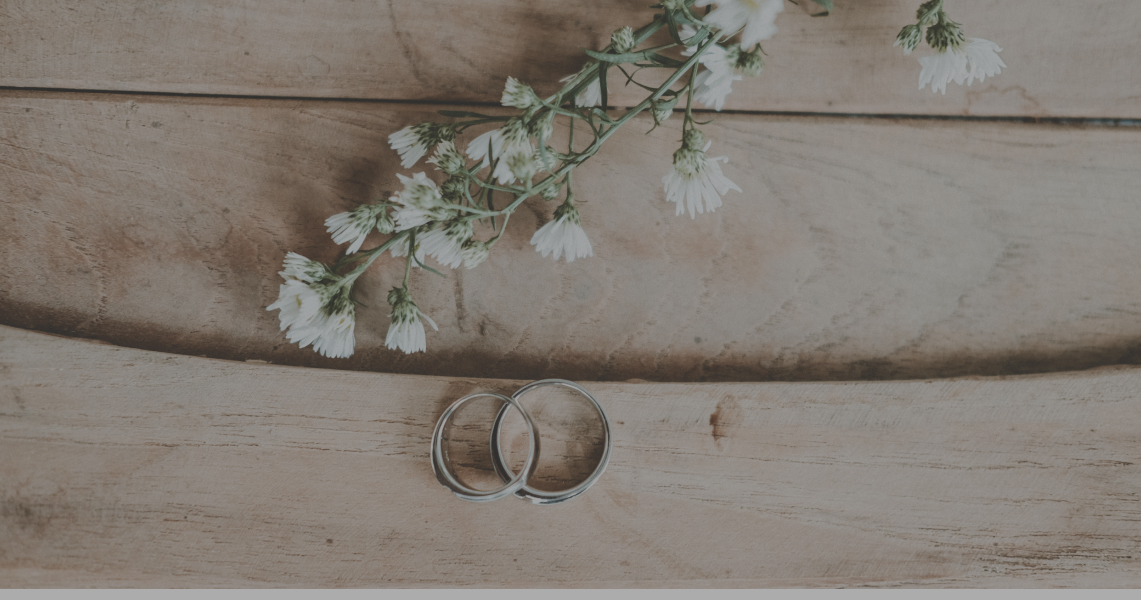
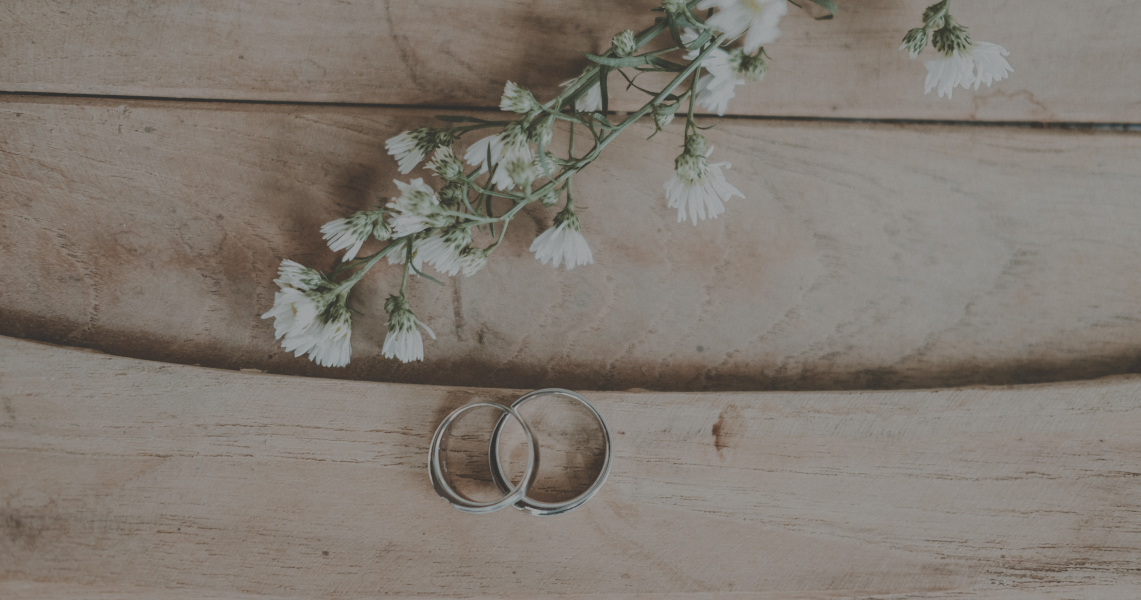
Create About

diff --git a/src/component/about/Description.js b/src/component/about/Description.js
@@ -1,0 +1,43 @@
+import React, { Component } from "react";
+import { Logo } from "../../assets/img/img";
+
+export default class Description extends Component {
+  render() {
+    return (
+      <>
+        <section id="about">
+          <div className="container">
+            <div className="row">
+              <div className="logo">
+                <img src={Logo} alt="logo" className="img-fluid" />
+              </div>
+              <div className="description">
+                <p>
+                  Empathie.photo is a team of professional photographer owned by
+                  Jay {"&"} Elfin. We offering service in Wedding, Pre-Wedding,
+                  Engagement, etc in Jabodetabek.
+                </p>
+
+                <p>
+                  As a team of professional photographers, we are also committed
+                  to capture every meaningful moment expressed by our
+                  photography results. Believing that every picture tells a
+                  story, towards our creativity, team work, and sincerity on
+                  customers’ satisfaction, we treasure our relationship with the
+                  customers by giving everything we have.
+                </p>
+
+                <p>
+                  In Depok where Empathie.photo established, we have witnessed
+                  that happiness on each photograph is boundless. It is keeping
+                  us encouraged that our job is to provide the best for our
+                  customers, wherever and whenever.
+                </p>
+              </div>
+            </div>
+          </div>
+        </section>
+      </>
+    );
+  }
+}

diff --git a/src/css/main.css b/src/css/main.css
@@ -370,4 +370,61 @@ body {
   max-width: 700px;
 }
 
+#jumbotron-about .jumbotron {
+  margin-top: 30px;
+  background-color: #171717;
+  background-image: url("../assets/img/Jumbo_about.jpg");
+  background-size: cover;
+  height: 100vh;
+  background-position-x: 40%;
+}
+#jumbotron-about .jumbotron .row {
+  display: flex;
+}
+#jumbotron-about .jumbotron .row h1 {
+  font-family: "Noto Sans JP", sans-serif;
+  color: whitesmoke;
+  font-weight: 100;
+  font-size: 36px;
+  letter-spacing: 20px;
+  margin: auto;
+  margin-top: 70px;
+  text-shadow: 2px 2px 8px rgba(0, 0, 0, 0.3);
+}
+@media (max-width: 768px) {
+  #jumbotron-about .jumbotron {
+    margin-top: 0px;
+  }
+  #jumbotron-about .jumbotron .row h1 {
+    font-size: 24px;
+  }
+}
+
+#about .container {
+  margin-top: -80px;
+}
+#about .container .row {
+  display: flex;
+  justify-content: center;
+  flex-wrap: wrap;
+}
+#about .container .row .logo {
+  width: 480px;
+}
+#about .container .row .logo img {
+  width: 100%;
+}
+#about .container .row .description {
+  background-color: #2f2f2f;
+  padding: 30px;
+  width: 480px;
+  display: flex;
+  flex-direction: column;
+}
+#about .container .row .description p {
+  margin: auto;
+  font-family: "Rokkitt", serif;
+  color: white;
+}
+
 /*# sourceMappingURL=main.css.map */

diff --git a/public/index.html b/public/index.html
@@ -15,9 +15,9 @@
   <body>
     <div id="root"></div>
 
-    <!-- <script src="https://ajax.googleapis.com/ajax/libs/jquery/1.12.4/jquery.min.js"></script> -->
-    <!-- <script src="https://cdnjs.cloudflare.com/ajax/libs/popper.js/1.12.9/umd/popper.min.js" integrity="sha384-ApNbgh9B+Y1QKtv3Rn7W3mgPxhU9K/ScQsAP7hUibX39j7fakFPskvXusvfa0b4Q" crossorigin="anonymous"></script>
-    <script src="https://maxcdn.bootstrapcdn.com/bootstrap/4.0.0/js/bootstrap.min.js" integrity="sha384-JZR6Spejh4U02d8jOt6vLEHfe/JQGiRRSQQxSfFWpi1MquVdAyjUar5+76PVCmYl" crossorigin="anonymous"></script> -->
+    <script src="https://ajax.googleapis.com/ajax/libs/jquery/1.12.4/jquery.min.js"></script>
+    <script src="https://cdnjs.cloudflare.com/ajax/libs/popper.js/1.12.9/umd/popper.min.js" integrity="sha384-ApNbgh9B+Y1QKtv3Rn7W3mgPxhU9K/ScQsAP7hUibX39j7fakFPskvXusvfa0b4Q" crossorigin="anonymous"></script>
+    <script src="https://maxcdn.bootstrapcdn.com/bootstrap/4.0.0/js/bootstrap.min.js" integrity="sha384-JZR6Spejh4U02d8jOt6vLEHfe/JQGiRRSQQxSfFWpi1MquVdAyjUar5+76PVCmYl" crossorigin="anonymous"></script>
   
   </body>
 </html>

diff --git a/src/sass/Portfolio/_portfolio.scss b/src/sass/Portfolio/_portfolio.scss
@@ -1,0 +1,38 @@
+@use '../setup';
+
+#jumbotron-portfolio {
+  .jumbotron {
+    margin-top: 30px;
+    background-color: setup.$primaryColor;
+    background-image: url("../assets/img/Jumbo_portfolio.jpg");
+    background-size: cover;
+    height: 100vh;
+    background-position-x: 50%;
+
+    .row {
+      display: flex;
+
+      h1 {
+        font-family: "Noto Sans JP", sans-serif;
+        color: whitesmoke;
+        font-weight: 100;
+        font-size: 36px;
+        letter-spacing: 20px;
+        margin: auto;
+        margin-top: 70px;
+        text-shadow: 2px 2px 8px rgba($color: #000000, $alpha: 0.3);
+      }
+    }
+  }
+
+  @media (max-width: 768px) {
+    .jumbotron {
+      margin-top: 0px;
+      .row {
+        h1 {
+          font-size: 24px;
+        }
+      }
+    }
+  }
+}

diff --git a/src/pages/About.js b/src/pages/About.js
@@ -1,11 +1,16 @@
-import React, { Component } from 'react'
+import React, { Component } from "react";
+import { Navbar } from "../component/index";
+import JumbotronAbout from "../component/about/JumbotronAbout";
+import Description from "../component/about/Description";
 
 export default class About extends Component {
-    render() {
-        return (
-            <div>
-                ini about
-            </div>
-        )
-    }
+  render() {
+    return (
+      <>
+        <Navbar />
+        <JumbotronAbout />
+        <Description />
+      </>
+    );
+  }
 }

diff --git a/src/sass/About/_description.scss b/src/sass/About/_description.scss
@@ -1,0 +1,30 @@
+@use '../setup';
+
+#about {
+  .container {
+    margin-top: -80px;
+    .row {
+      display: flex;
+      justify-content: center;
+      flex-wrap: wrap;
+      .logo {
+        width: 480px;
+        img {
+          width: 100%;
+        }
+      }
+      .description {
+        background-color: #2f2f2f;
+        padding: 30px;
+        width: 480px;
+        display: flex;
+        flex-direction: column;
+        p {
+          margin: auto;
+          font-family: "Rokkitt", serif;
+          color: white;
+        }
+      }
+    }
+  }
+}

diff --git a/src/sass/About/_jumbotronAbout.scss b/src/sass/About/_jumbotronAbout.scss
@@ -1,13 +1,14 @@
-@use 'setup';
+@use '../setup';
 
-#jumbotron-portfolio {
+#jumbotron-about {
   .jumbotron {
     margin-top: 30px;
     background-color: setup.$primaryColor;
-    background-image: url("../assets/img/Jumbo_portfolio.jpg");
+    background-image: url("../assets/img/Jumbo_about.jpg");
     background-size: cover;
     height: 100vh;
-    background-position-x: 50%;
+    // background-position-y: -80px;
+    background-position-x: 40%;
 
     .row {
       display: flex;

diff --git a/src/component/about/JumbotronAbout.js b/src/component/about/JumbotronAbout.js
@@ -1,12 +1,12 @@
 import React, { Component } from "react";
 
-export default class JumbotronPortfolio extends Component {
+export default class JumbotronAbout extends Component {
   render() {
     return (
-      <section id="jumbotron-portfolio">
+      <section id="jumbotron-about">
         <div className="container jumbotron">
           <div className="row">
-            <h1>PORTFOLIO</h1>
+            <h1>ABOUT</h1>
           </div>
         </div>
       </section>

diff --git a/src/assets/img/img.js b/src/assets/img/img.js
@@ -9,7 +9,7 @@ import Jumbo_about from "./Jumbo_about.jpg";
 import Thumbail1 from "./thumbnail1.jpg";
 import Thumbail2 from "./thumbnail2.jpg";
 import Thumbail3 from "./thumbnail3.jpg";
-
+import Logo from "./empathielogo.png";
 export {
   BG1,
   BG2,
@@ -22,4 +22,5 @@ export {
   Thumbail1,
   Thumbail2,
   Thumbail3,
+  Logo,
 };

diff --git a/src/sass/main.scss b/src/sass/main.scss
@@ -1,6 +1,8 @@
 @use 'navbar';
-@use 'jumbotronHome';
-@use 'portfolio';
-@use 'menu';
-@use 'category';
-@use 'client';
+@use 'Home/jumbotronHome';
+@use 'Portfolio/portfolio';
+@use 'Portfolio/menu';
+@use 'Portfolio/category';
+@use 'Portfolio/client';
+@use 'About/jumbotronAbout';
+@use 'About/description';

diff --git a/src/sass/Home/_jumbotronHome.scss b/src/sass/Home/_jumbotronHome.scss
@@ -1,4 +1,4 @@
-@use 'setup';
+@use '../setup';
 
 #slideshow {
   margin-top: -100px;

diff --git a/src/sass/Portfolio/_category.scss b/src/sass/Portfolio/_category.scss
@@ -1,4 +1,4 @@
-@use 'setup';
+@use '../setup';
 
 #category {
   .category-panel {
